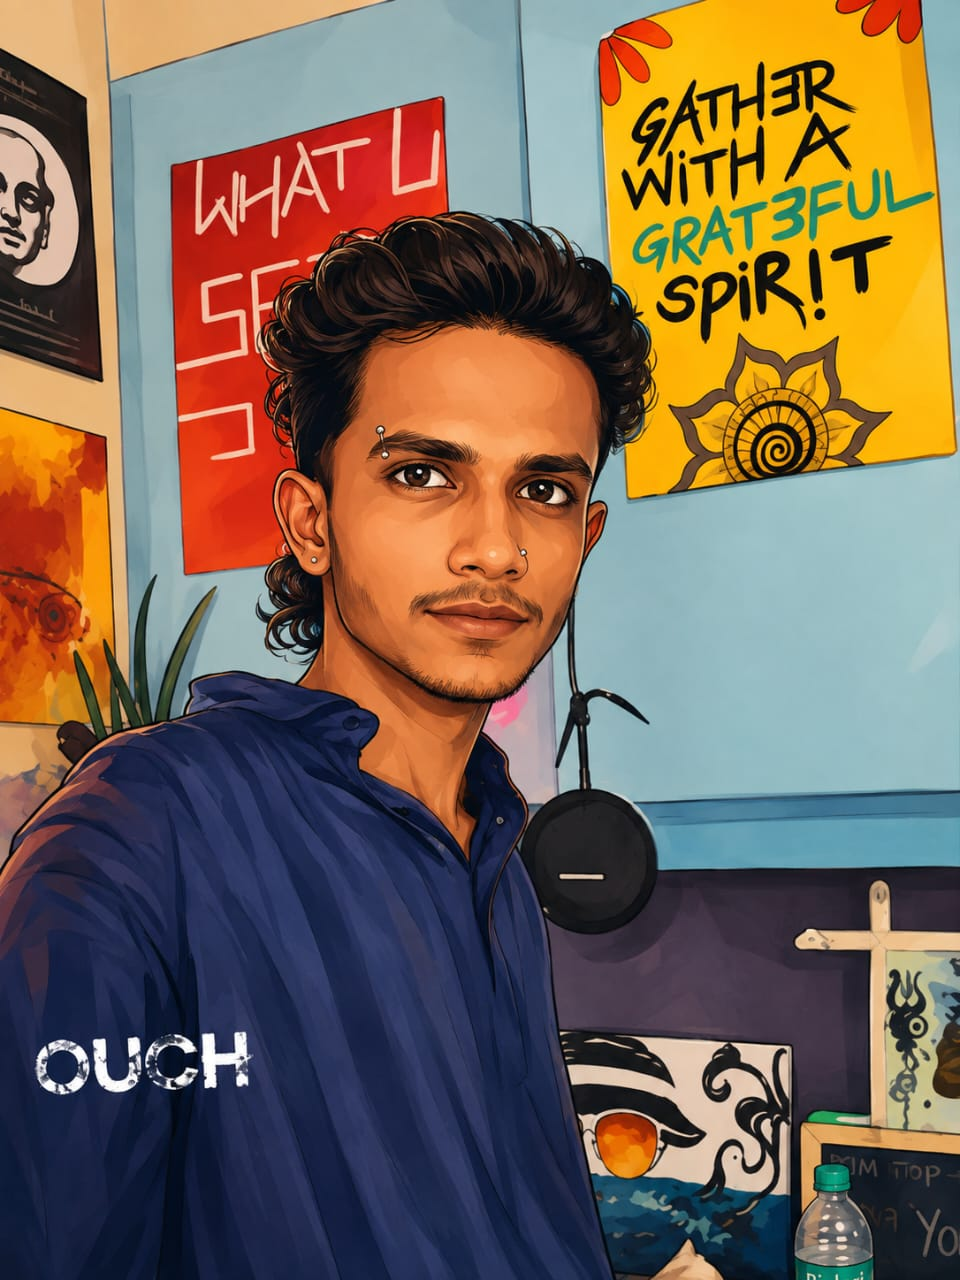
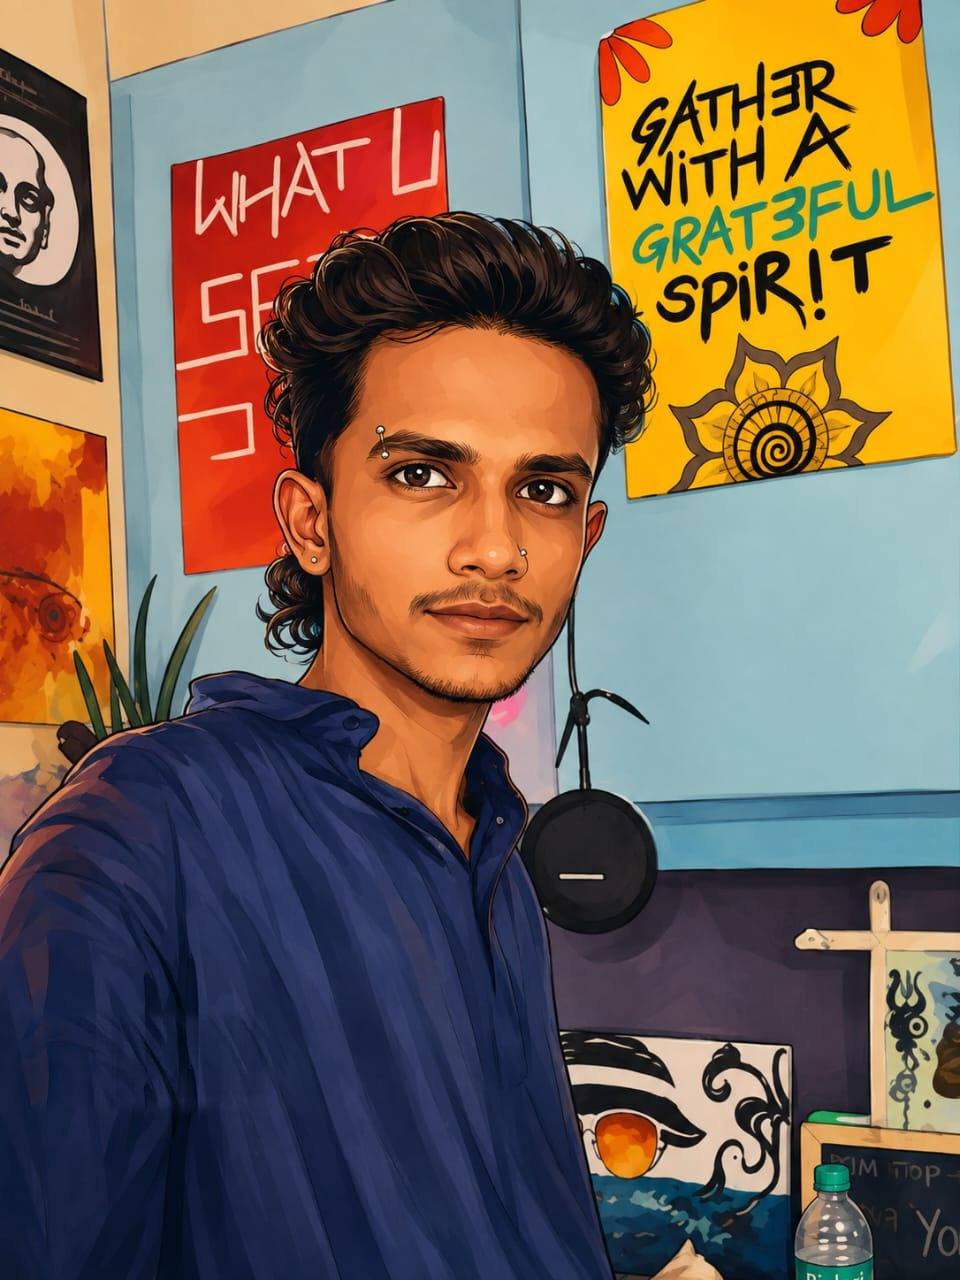
Little Wins — a private counter for every order
Reads straight from the real orders: totals, this month, average, where each
one stands, what actually sells, and the full ledger. Not linked, noindex.

Also clears the stray stencil wordmark off the studio gallery portrait — it
was never our logo. The cloth is rebuilt from its own folds, not patched flat.

Changed region(s): [[0.0312, 0.7812, 0.2812, 0.875]]

diff --git a/src/app/(frontend)/wins/page.tsx b/src/app/(frontend)/wins/page.tsx
@@ -1,0 +1,237 @@
+import type { Metadata } from 'next'
+import React from 'react'
+
+import type { Order } from '@/payload-types'
+import { DoodleHeart, DoodleSmiley, DoodleStar } from '@/components/Doodles'
+import { BrushStroke } from '@/components/Paint'
+import { Reveal } from '@/components/Reveal'
+import { getPayloadClient } from '@/lib/queries'
+import { formatPrice } from '@/lib/utils'
+
+/** Private working page — not linked from the site, not indexed.
+ *  Every order that ever landed, counted in one place. */
+export const metadata: Metadata = {
+  title: 'Little Wins — internal',
+  robots: { index: false, follow: false, nocache: true },
+}
+
+// Always fresh: a counter nobody trusts is a counter nobody opens.
+export const dynamic = 'force-dynamic'
+
+const STATUS_LOOK: Record<string, { label: string; chip: string }> = {
+  new: { label: 'New', chip: 'bg-pink' },
+  confirmed: { label: 'Confirmed', chip: 'bg-purple' },
+  shipped: { label: 'On its way', chip: 'bg-cyan' },
+  delivered: { label: 'Landed', chip: 'bg-lime' },
+  cancelled: { label: 'Called off', chip: 'bg-orange' },
+}
+
+function day(iso: string): string {
+  return new Date(iso).toLocaleDateString('en-IN', {
+    day: 'numeric',
+    month: 'short',
+    year: 'numeric',
+  })
+}
+
+export default async function WinsPage() {
+  const payload = await getPayloadClient()
+  const { docs, totalDocs } = await payload.find({
+    collection: 'orders',
+    limit: 200,
+    sort: '-createdAt',
+    overrideAccess: true,
+  })
+  const orders = docs as Order[]
+
+  // Cancelled orders are real history, but they are not money and not a win.
+  const live = orders.filter((o) => o.status !== 'cancelled')
+  const earned = live.reduce((sum, o) => sum + (o.total ?? 0), 0)
+  const average = live.length ? Math.round(earned / live.length) : 0
+
+  const now = new Date()
+  const thisMonth = live.filter((o) => {
+    const d = new Date(o.createdAt)
+    return d.getMonth() === now.getMonth() && d.getFullYear() === now.getFullYear()
+  })
+  const monthEarned = thisMonth.reduce((sum, o) => sum + (o.total ?? 0), 0)
+
+  const byStatus = orders.reduce<Record<string, number>>((acc, o) => {
+    acc[o.status] = (acc[o.status] ?? 0) + 1
+    return acc
+  }, {})
+
+  // What actually sells, counted by piece rather than by order.
+  const pieces = new Map<string, { count: number; earned: number }>()
+  for (const o of live) {
+    for (const item of o.items ?? []) {
+      const key = item.title
+      const prev = pieces.get(key) ?? { count: 0, earned: 0 }
+      pieces.set(key, {
+        count: prev.count + (item.quantity ?? 0),
+        earned: prev.earned + (item.unitPrice ?? 0) * (item.quantity ?? 0),
+      })
+    }
+  }
+  const topPieces = [...pieces.entries()].sort((a, b) => b[1].count - a[1].count).slice(0, 8)
+
+  const HEADLINE = [
+    { value: String(live.length), label: 'Orders, all time', color: 'text-pink' },
+    { value: formatPrice(earned), label: 'Earned, all time', color: 'text-yellow' },
+    { value: String(thisMonth.length), label: 'This month', color: 'text-cyan' },
+    { value: live.length ? formatPrice(average) : '—', label: 'Average order', color: 'text-purple' },
+  ]
+
+  return (
+    <div className="mx-auto max-w-4xl px-4 py-12 sm:px-6">
+      <Reveal>
+        <p className="text-marker text-sm text-pink">Private page — not linked, not searchable</p>
+        <h1 className="text-poster relative mt-2 w-fit text-4xl sm:text-5xl">
+          Little wins
+          <BrushStroke
+            className="absolute -bottom-2 left-0 h-3 w-full"
+            color="var(--color-yellow)"
+            seed={62}
+          />
+        </h1>
+        <p className="text-marker mt-4 text-lg">
+          Every order, since day one. <span className="text-pink">Counted properly.</span>
+        </p>
+        <p className="mt-3 max-w-xl text-[15px] leading-relaxed opacity-85">
+          Just for us. Refresh it any time — it reads straight from the real orders.
+        </p>
+      </Reveal>
+
+      {/* the numbers that matter, at a glance */}
+      <Reveal className="mt-10 grid gap-4 sm:grid-cols-2 lg:grid-cols-4">
+        {HEADLINE.map((stat) => (
+          <div className="rounded-2xl bg-[var(--card-tint)] p-5" key={stat.label}>
+            <p className={`text-poster text-3xl ${stat.color}`}>{stat.value}</p>
+            <p className="mt-1 text-[13px] tracking-wide opacity-75">{stat.label}</p>
+          </div>
+        ))}
+      </Reveal>
+
+      {live.length > 0 && (
+        <Reveal className="mt-4 rounded-2xl border border-line p-5">
+          <p className="text-marker text-[15px]">
+            This month you have earned{' '}
+            <span className="text-pink">{formatPrice(monthEarned)}</span> across{' '}
+            {thisMonth.length} {thisMonth.length === 1 ? 'order' : 'orders'}.
+          </p>
+        </Reveal>
+      )}
+
+      {orders.length === 0 ? (
+        <Reveal className="mt-10 rounded-2xl border border-line py-16 text-center">
+          <DoodleStar className="mx-auto h-10 w-10 text-yellow" />
+          <p className="text-poster mt-4 text-2xl">No orders yet. That is fine.</p>
+          <p className="mx-auto mt-3 max-w-sm text-[15px] opacity-80">
+            Every shop starts on zero. The moment the first one lands, it shows up right here — and
+            you will not have to do a thing.
+          </p>
+          <DoodleHeart className="mx-auto mt-5 h-7 w-7 text-pink" />
+        </Reveal>
+      ) : (
+        <>
+          {/* where each order stands right now */}
+          <Reveal className="mt-12">
+            <h2 className="text-marker text-2xl">Where things stand</h2>
+            <div className="mt-5 flex flex-wrap gap-3">
+              {Object.entries(STATUS_LOOK).map(([key, look]) => (
+                <div
+                  className="flex items-center gap-2.5 rounded-full border border-line px-4 py-2"
+                  key={key}
+                >
+                  <span className={`h-2.5 w-2.5 rounded-full ${look.chip}`} />
+                  <span className="text-[13px]">{look.label}</span>
+                  <span className="text-poster text-[15px]">{byStatus[key] ?? 0}</span>
+                </div>
+              ))}
+            </div>
+          </Reveal>
+
+          {topPieces.length > 0 && (
+            <Reveal className="mt-12">
+              <h2 className="text-marker text-2xl">What people actually pick</h2>
+              <p className="mt-2 text-sm opacity-75">
+                Counted by piece, so you know what to hunt for next time.
+              </p>
+              <ul className="mt-5 space-y-2.5">
+                {topPieces.map(([title, s]) => (
+                  <li
+                    className="flex items-center justify-between gap-4 rounded-2xl bg-[var(--card-tint)] px-5 py-3.5"
+                    key={title}
+                  >
+                    <span className="text-poster truncate text-[15px]">{title}</span>
+                    <span className="shrink-0 text-[13px] opacity-80">
+                      <span className="text-pink">{s.count}</span> sold ·{' '}
+                      {formatPrice(s.earned)}
+                    </span>
+                  </li>
+                ))}
+              </ul>
+            </Reveal>
+          )}
+
+          {/* the ledger */}
+          <Reveal className="mt-12">
+            <h2 className="text-marker text-2xl">Every order</h2>
+            <p className="mt-2 text-sm opacity-75">
+              Newest first. {totalDocs > orders.length ? `Showing the latest ${orders.length}.` : ''}
+            </p>
+            <div className="mt-5 space-y-3">
+              {orders.map((o) => {
+                const look = STATUS_LOOK[o.status] ?? { label: o.status, chip: 'bg-pink' }
+                return (
+                  <div className="rounded-2xl bg-[var(--card-tint)] p-5" key={o.id}>
+                    <div className="flex flex-wrap items-baseline justify-between gap-x-4 gap-y-1">
+                      <span className="text-poster text-[15px]">{o.customerName}</span>
+                      <span className="text-poster text-lg text-pink">
+                        {formatPrice(o.total ?? 0)}
+                      </span>
+                    </div>
+                    <div className="mt-1 flex flex-wrap items-center gap-x-3 gap-y-1 text-[13px] opacity-75">
+                      <span className="font-mono">{o.orderNumber}</span>
+                      <span>·</span>
+                      <span>{day(o.createdAt)}</span>
+                      <span>·</span>
+                      <span>{o.customerPhone}</span>
+                    </div>
+                    <ul className="mt-3 space-y-1 text-[13px] opacity-85">
+                      {(o.items ?? []).map((item, i) => (
+                        <li key={i}>
+                          {item.title}
+                          {item.variant ? ` (${item.variant})` : ''} × {item.quantity}
+                        </li>
+                      ))}
+                    </ul>
+                    <div className="mt-3 flex flex-wrap items-center gap-2">
+                      <span
+                        className={`text-marker rounded-full px-3 py-0.5 text-[12px] text-[#17141a] ${look.chip}`}
+                      >
+                        {look.label}
+                      </span>
+                      <span className="text-marker rounded-full border border-line px-3 py-0.5 text-[12px]">
+                        {o.paymentStatus === 'paid' ? 'Paid' : 'Payment pending'}
+                      </span>
+                    </div>
+                    {o.note && <p className="mt-3 text-[13px] italic opacity-70">“{o.note}”</p>}
+                  </div>
+                )
+              })}
+            </div>
+          </Reveal>
+        </>
+      )}
+
+      <Reveal className="mt-12 text-center" delay={100}>
+        <DoodleSmiley className="mx-auto h-9 w-9 text-yellow" />
+        <p className="text-marker mt-3 text-xl">Small numbers now. Real ones though. 🎶</p>
+        <p className="mt-2 text-sm opacity-75">
+          Change an order&apos;s status any time in the admin — this page follows along.
+        </p>
+      </Reveal>
+    </div>
+  )
+}
